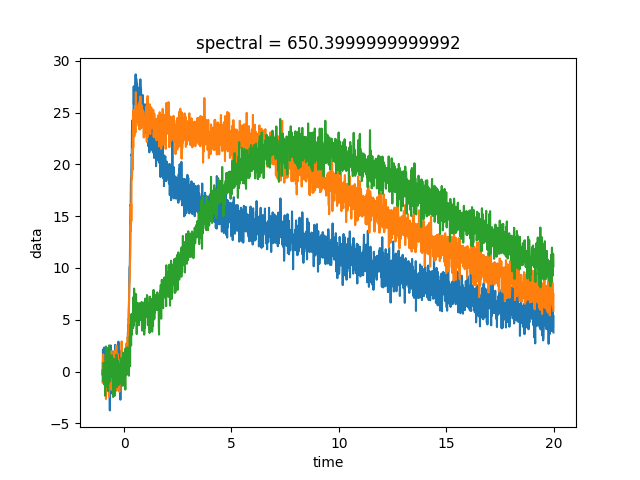
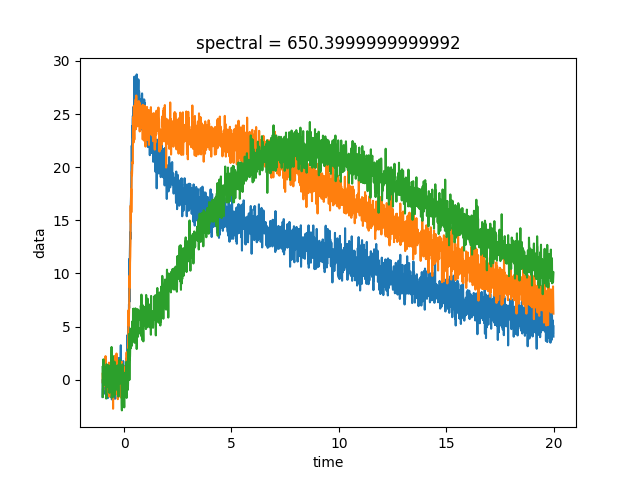
bugfix

diff --git a/glotaran/analysis/fitresult.py b/glotaran/analysis/fitresult.py
@@ -6,7 +6,7 @@ import numpy as np
 import xarray as xr
 from lmfit.minimizer import Minimizer
 
-import glotaran
+import glotaran  # noqa F01
 from glotaran.model.parameter_group import ParameterGroup
 
 
@@ -58,7 +58,10 @@ class FitResult:
 
             if 'weight' in dataset:
                 dataset['weighted_data'] = np.multiply(dataset.data, dataset.weight)
-            self._data[label] = dataset.transpose(model.calculated_axis, model.estimated_axis)
+            self._data[label] = dataset.transpose(model.calculated_axis, model.estimated_axis,
+                                                  *[dim for dim in dataset.dims
+                                                    if dim is not model.calculated_axis and
+                                                    dim is not model.estimated_axis])
         self._initial_parameter = initital_parameter
         self._nnls = nnls
         self._group = create_group(model, self._data, atol)
@@ -244,7 +247,7 @@ class FitResult:
                     dataset['residual'] = dataset.data.copy()
                 end = dataset.coords[self.model.calculated_axis].size + start
                 dataset.residual.loc[{self.model.estimated_axis: i}] = residual[start:end]
-                start += end
+                start = end
 
                 if 'clp' not in dataset:
                     dim1 = dataset.coords[self.model.estimated_axis].size

diff --git a/glotaran/model/parameter_group.py b/glotaran/model/parameter_group.py
@@ -14,6 +14,16 @@ from lmfit import Parameters
 from .parameter import Parameter
 
 
+class ParameterNotFoundException(Exception):
+    """Raised when a Parameter is not found in the Group."""
+    def __init__(self, path, label):
+        self._path = path,
+        self._label = label
+
+    def __str__(self):
+        return f"Cannot find parameter {'.'.join(self._path)}.{self._label}"
+
+
 class ParameterGroup(OrderedDict):
     """Represents are group of parameters. Can contain other groups, creating a
     tree-like hirachy."""
@@ -251,12 +261,14 @@ class ParameterGroup(OrderedDict):
 
         group = self
         for l in path:
-            group = group[l]
+            try:
+                group = group[l]
+            except KeyError:
+                raise ParameterNotFoundException(path, label)
         try:
             return group._parameters[label]
         except KeyError:
-            raise Exception("Cannot find parameter "
-                            "{}".format(".".join(path)+"."+label))
+            raise ParameterNotFoundException(path, label)
 
     def get_by_index(self, idx: int) -> Parameter:
         """ Gets a parameter by its index. Only works for unlabeled parameters

diff --git a/glotaran/analysis/grouping.py b/glotaran/analysis/grouping.py
@@ -116,11 +116,11 @@ def calculate_group_item(item,
                     if comp not in full_clp:
                         full_clp.append(comp)
                         full_matrix = np.concatenate(
-                            (full_matrix, np.zeros((full_matrix.shape[0]))), axis=1)
+                            (full_matrix, np.zeros((full_matrix.shape[0], 1))), axis=1)
                 reshape = np.zeros((matrix.shape[0], len(full_clp)))
                 for i, comp in enumerate(full_clp):
                     reshape[:, i] = matrix[:, clp.index(comp)] \
-                            if comp in clp else np.zeros((matrix.shape[1]))
+                            if comp in clp else np.zeros((matrix.shape[0]))
                 matrix = reshape
 
             full_matrix = np.concatenate([full_matrix, matrix], axis=0)

diff --git a/glotaran/model/model.py b/glotaran/model/model.py
@@ -1,6 +1,5 @@
 from collections import OrderedDict
 from typing import Dict, List
-import functools
 
 from glotaran.parse.register import register_model
 
@@ -32,7 +31,7 @@ def model(name,
                 additional_residual_function)
         setattr(cls, 'allow_grouping', allow_grouping)
         cls.__doc__ += '''
-        
+
         Attributes
         ----------
         allow_grouping:

diff --git a/glotaran/models/spectral_temporal/kinetic_megacomplex.py b/glotaran/models/spectral_temporal/kinetic_megacomplex.py
@@ -24,4 +24,4 @@ class KineticMegacomplex:
 
     @property
     def involved_compartments(self):
-        return self.get_k_matrix().involved_compartments()
+        return self.get_k_matrix().involved_compartments() if self.get_k_matrix() else []

diff --git a/glotaran/models/spectral_temporal/irf.py b/glotaran/models/spectral_temporal/irf.py
@@ -5,6 +5,7 @@ import numpy as np
 
 from glotaran.model import model_item, model_item_typed
 
+
 class IrfException(Exception):
     def __init__(self, irf, msg):
         self.irf = irf.label

diff --git a/glotaran/models/spectral_temporal/spectral_constraints.py b/glotaran/models/spectral_temporal/spectral_constraints.py
@@ -5,6 +5,7 @@ import numpy as np
 
 from glotaran.model import model_item, model_item_typed
 
+
 @model_item(
     attributes={
         'compartment': str,
